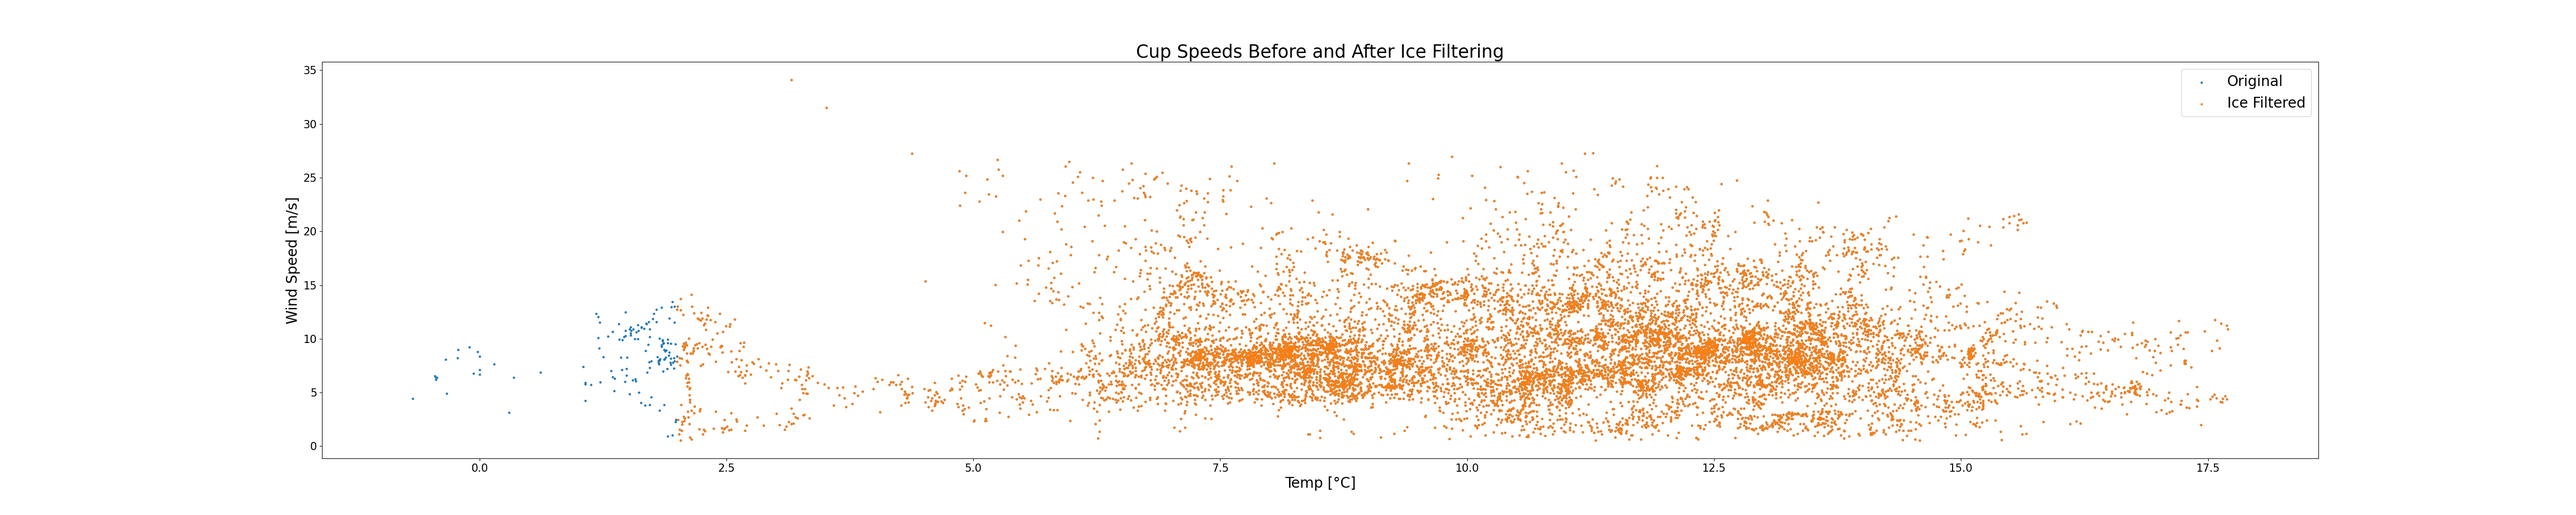
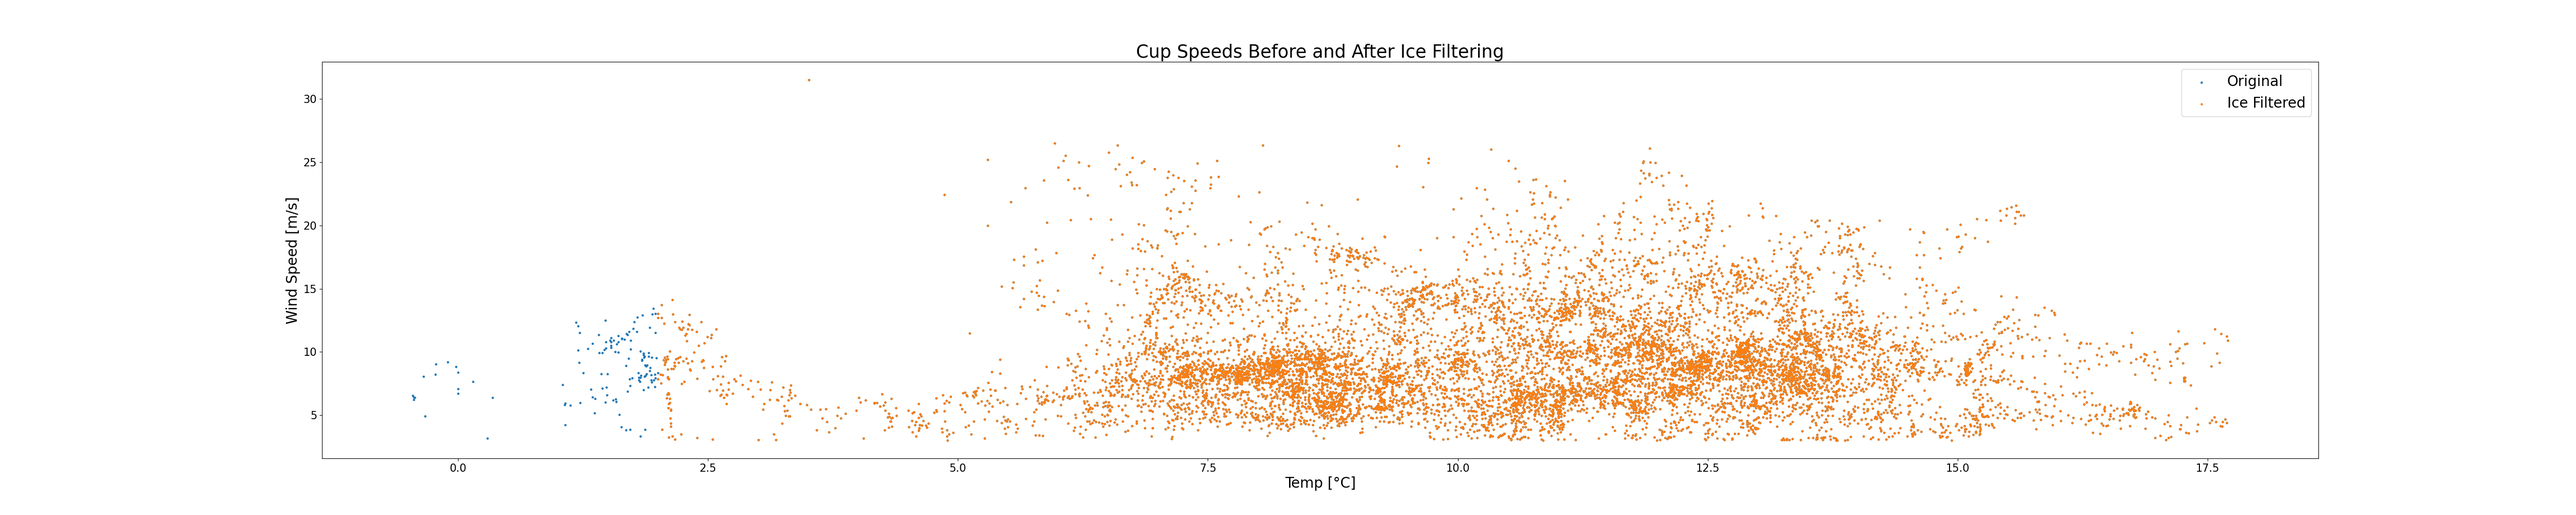
Q7 finished

Changed region(s): [[0.3432, 0.403, 0.8424, 0.868], [0.2184, 0.589, 0.312, 0.775], [0.624, 0.341, 0.6552, 0.372]]

diff --git a/Assignment1/as02_START.py b/Assignment1/as02_START.py
@@ -166,14 +166,14 @@ df_WindData = df_filtered.copy()
 
 fn.plot_scatter('Wind Speed Comparison',df_filtered['Vane100m_Mean'], df_filtered['Cup100m_Mean'], 'Cup',
                  df_filtered['Vane100m_Mean'], df_filtered['Spd'], 'Windcube', label_x = 'Wind Direction [°]', 
-                 label_y = 'Wind Speed [m/s]', plot_bool = True)
+                 label_y = 'Wind Speed [m/s]', plot_bool = False)
 
 # # Create new DataFrame for analysis
 df_comparison = df_WindData.copy()
 
 # Function to perform regression analysis and create scatter plot
 
-plot_lidar_vs_cup = True
+plot_lidar_vs_cup = False
 # Create different comparison plots
 # 0. no directional filter
 if plot_lidar_vs_cup == True:
@@ -204,7 +204,7 @@ fn.plot_scatter('Cup Speeds Before and After Ice Filtering',
     df2x = df_ice_filtered['Temp100m_Mean'], df2y = df_ice_filtered['Cup100m_Mean'],
     label2='Ice Filtered',
     label_x = 'Temp [°C]', label_y = 'Wind Speed [m/s]',
-    plot_bool=False)
+    plot_bool=True)
 
      
 # A formal lidar calibration should only use wind speeds between 4 and 16 m/s. 
@@ -241,3 +241,36 @@ fn.analyze_wind_speeds(df_WindData, title="Regression with offset and directiona
 # regression line, think about why they are there and try and find a way of 
 # removing them. Give the results of the linear regression. Does it make sense 
 # to make a regression here with a forced (through zero) offset? 
+
+#%% Qusestion 7
+
+WS = [4, 8, 12]
+u_cal1_abs = 0.06
+k_cal1 = 2
+u_cal1 = u_cal1_abs/k_cal1 # 
+u_cal2 = 0.01/np.sqrt(3)
+k_c = 0.8
+u_mount = 0.01
+
+
+def compute_Uv(k_c, V, u_cal1, u_cal2, u_mount):
+
+    u_ope = k_c/(100) * 1/(np.sqrt(3)) * (0.5*V+5)
+
+    u_cal = np.sqrt(u_cal1**2 + u_cal2**2)
+
+    U_v = np.sqrt(u_cal**2 + u_mount**2 + u_ope**2)
+
+    return U_v
+
+
+
+results_ab = {}
+results_rel = {}
+
+for W in WS:
+    U_v = compute_Uv(k_c, W, u_cal1, u_cal2, u_mount)
+    results_ab[W] = U_v
+
+    results_rel[W] = U_v/W
+
